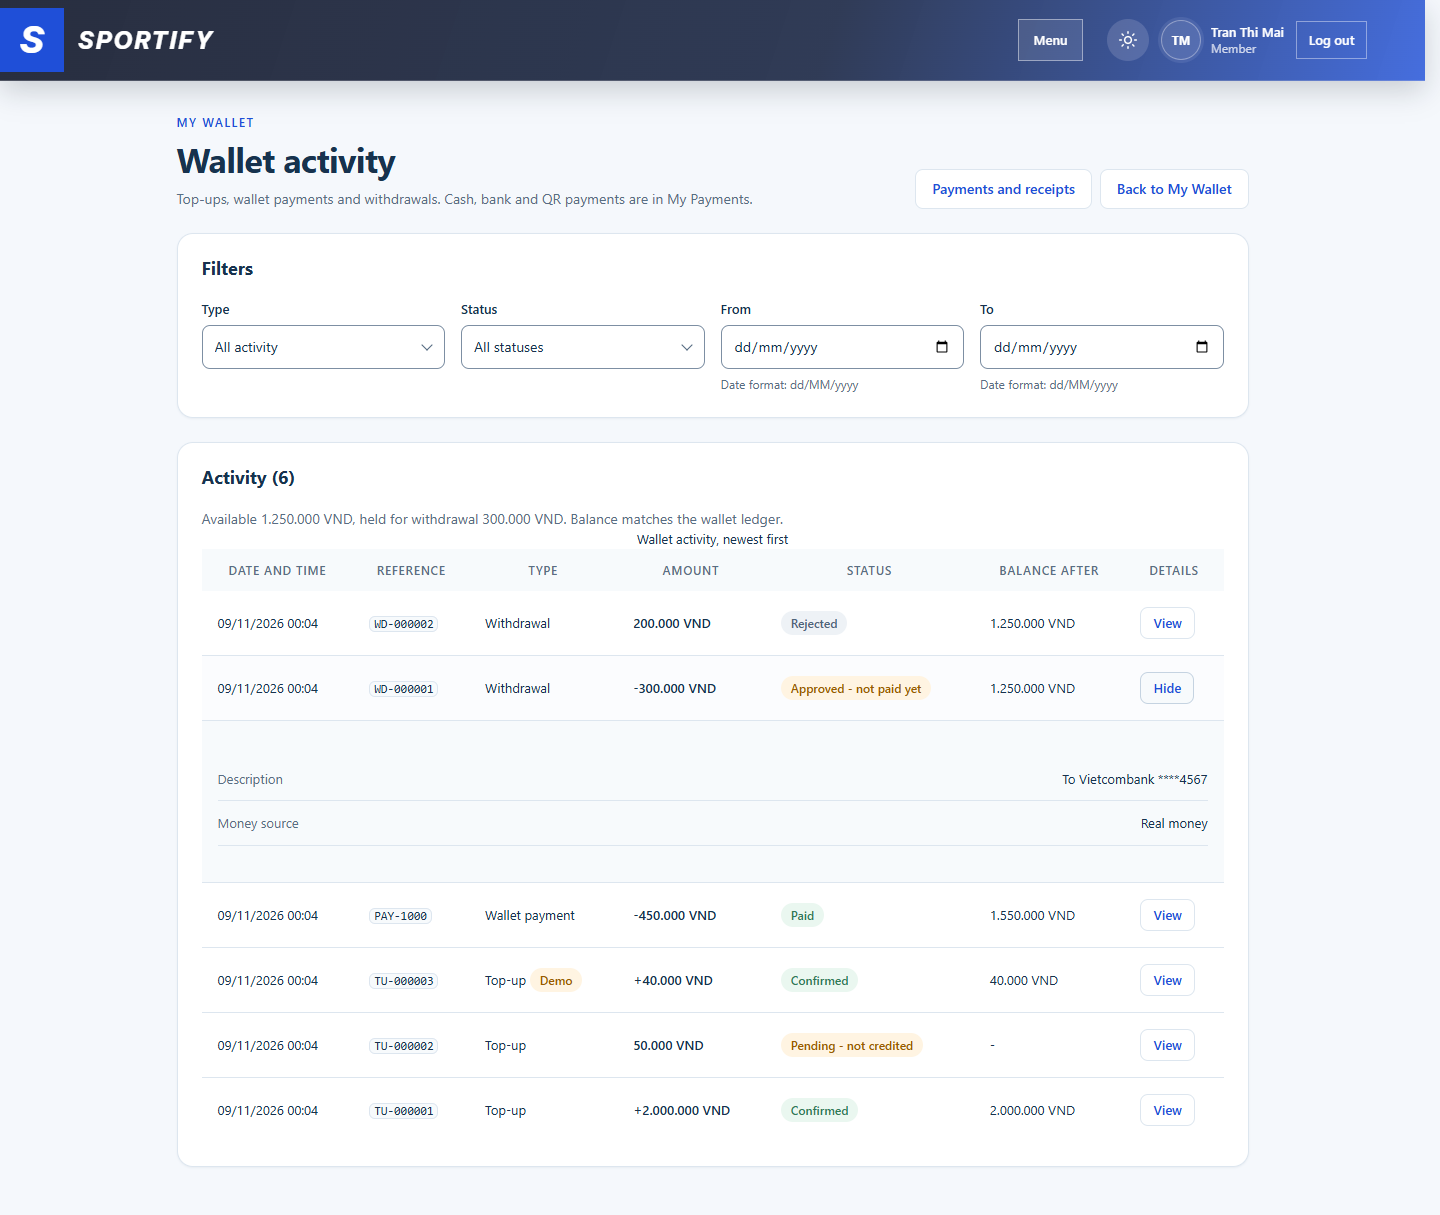
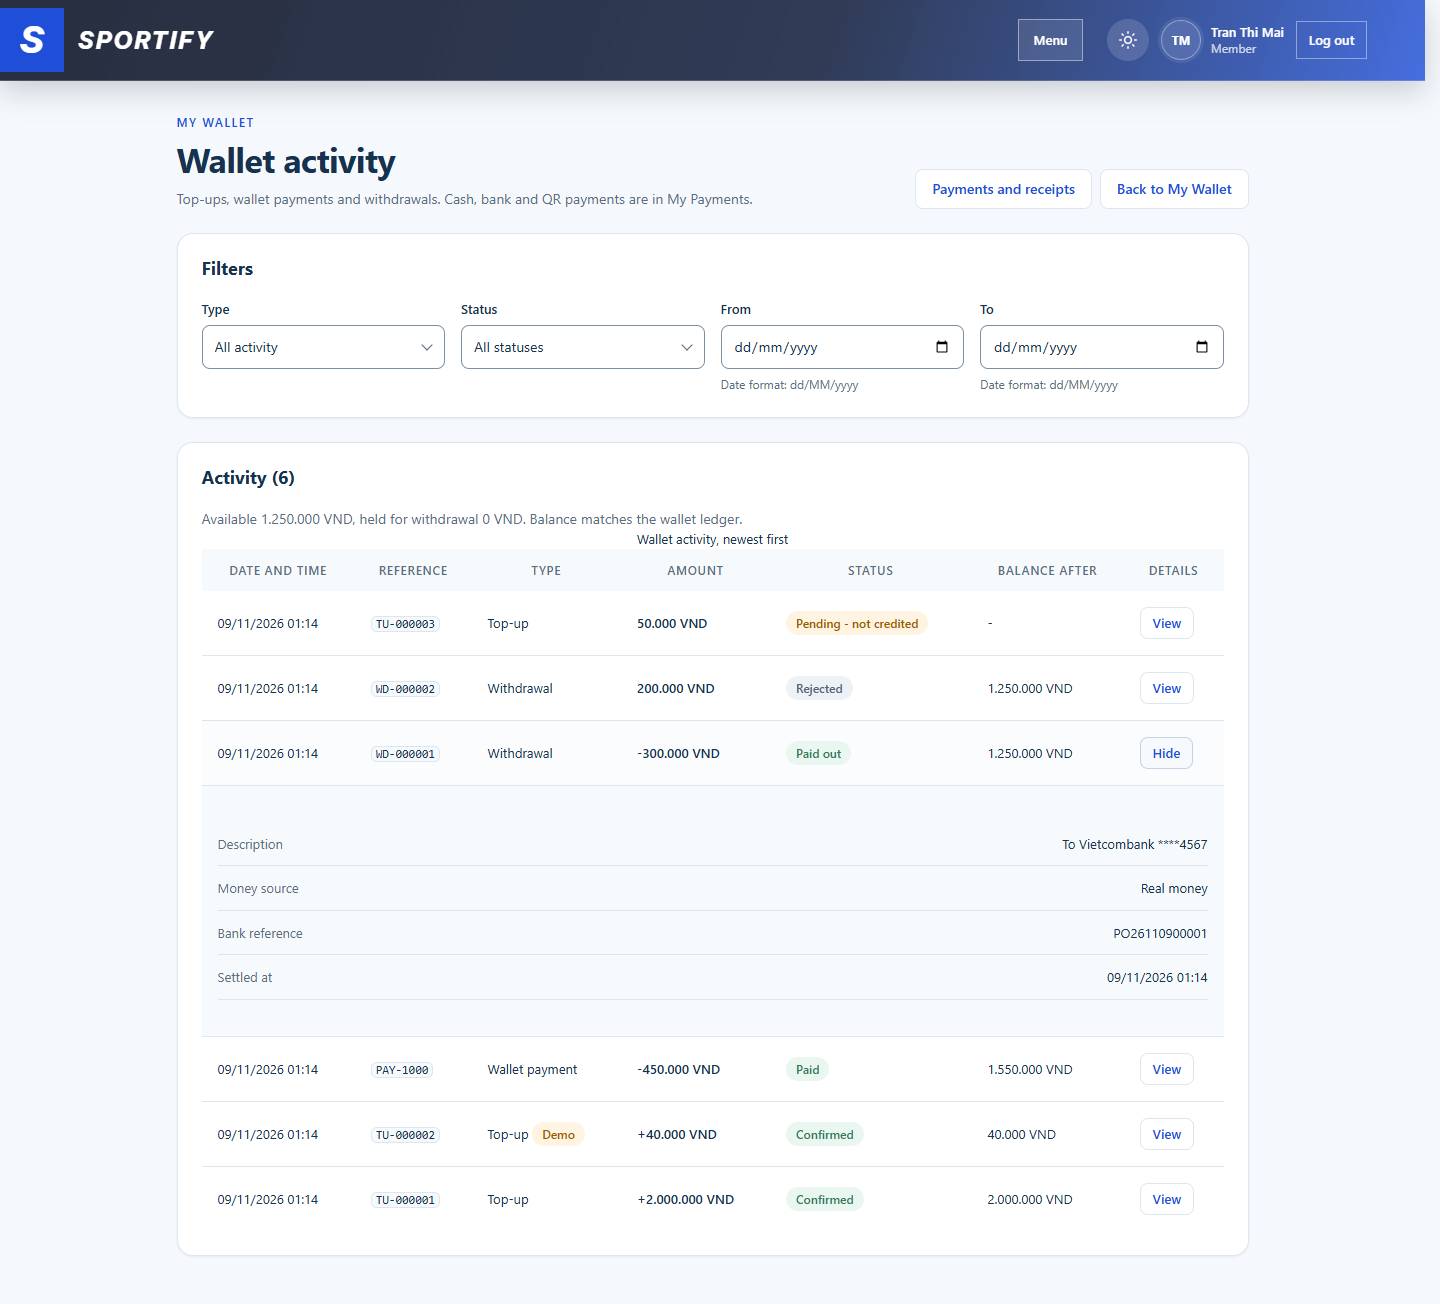
docs(flow-3): recapture MW-08 evidence and complete the final CODEOWNER handoff

diff --git a/tasks/Member-Wallet-Release (i)/reports/FINAL_CODEOWNER_HANDOFF.md b/tasks/Member-Wallet-Release (i)/reports/FINAL_CODEOWNER_HANDOFF.md
@@ -1,89 +1,106 @@
 # FINAL CODEOWNER HANDOFF - Member Wallet Release
 
-Status of this file: INTERIM (MW-01 to MW-04 only; MW-05 to MW-08 have no PR yet). Updated after the CODEOWNER review
-of 2026-11-08.
+Status of this file: FINAL for the implementation run (all eight tasks have a PR). It replaces the interim version written
+after the CODEOWNER review of MW-01 to MW-04 and keeps its findings.
 
-Run date/time/timezone: 2026-11-08, Asia/Bangkok
+Run date/time/timezone: 2026-11-08 to 2026-11-09, Asia/Bangkok
 Repository / initial origin/main SHA: `senko-do-thingz/G3-SportCentreManagement` / `e3e9a10bf981a4109c75e51d07c341b3a99e94d5`
-Latest origin/main SHA at review: `6dbbcfa9` (merged into the stack, no force-push)
-Target DB: `sportify` / migration authorization status: NOT AUTHORIZED. V49, V50 and V51 have not been applied to `sportify`. Evidence used throwaway databases `sportify_mw_evidence_*`.
-Local browser/JDK/SQL environment: Chrome via Playwright 1440x900, JDK 25, SQL Server (throwaway databases); CI uses Testcontainers SQL Server 2022.
+Latest origin/main SHA at review: `88208809` (includes the CODEOWNER merges of #250 and #253)
+Target DB: `sportify` / migration authorization status: NOT AUTHORIZED. V49 to V53 have not been applied to `sportify`.
+Evidence used throwaway databases `sportify_mw_evidence_<epoch>` (created per run, dropped afterwards); integration tests
+used the `DisposableUnifyDatabase` fixture on local SQL Server and Testcontainers in CI.
+Local browser/JDK/SQL environment: Chrome via Playwright 1440x900, JDK 25, local SQL Server; CI uses Testcontainers SQL Server 2022.
 
-## PR stack and the #251 merge event
+## PR stack
 
 ```
-main <- #250 fix/flow-1-mw-01-member-profile (MW-01 + MW-02)
-          <- #253 fix/flow-3-mw-03-wallet-core (MW-03)
-               <- #255 fix/flow-3-mw-04-topup (MW-04)
+main <- #250 MW-01 + MW-02 (merged by CODEOWNER)
+     <- #253 MW-03         (merged by CODEOWNER)
+     <- #255 MW-04 fix/flow-3-mw-04-topup                (open, base main)
+          <- #258 MW-05 fix/flow-2-mw-05-booking-wallet  (base MW-04 branch)
+               <- #259 MW-06 fix/flow-3-mw-06-withdrawal
+                    <- #260 MW-07 fix/flow-1-mw-07-reception-inbox
+                         <- #261 MW-08 fix/flow-3-mw-08-member-history
 ```
 
-- #251 (MW-02, `fix/flow-1-mw-02-health`) had `fix/flow-1-mw-01-member-profile` as its base. The author merged it on
-  GitHub into that branch (not into `main`) at 2026-11-08 09:13:55 UTC, merge commit `fcbafd8e`, before any CODEOWNER
-  review. The plan required separate CODEOWNER-reviewed PRs and no unapproved merges, so this merge did not follow the
-  plan. The reason is not recorded in the branch history; the author has been asked to confirm it on #250. `main` was
-  not changed.
-- Effect: #250's diff against `main` is MW-01 plus MW-02, including migration
-  `catalog/V49__member_health_assessment.sql`. #253's base was moved from the merged MW-02 branch to
-  `fix/flow-1-mw-01-member-profile`.
-- Release pins: V49 on #250, V50 on #253, V51 on #255 (UnifyPreflight, CI release checks, NX-04 inventory, schema
-  fingerprint from the CI fixture, `docs/db-unify/RECONCILIATION.md` addenda).
+- #251 (MW-02) was merged on GitHub into the MW-01 branch at 2026-11-08 09:13:55 UTC (merge commit `fcbafd8e`) before
+  CODEOWNER review, by the implementing account. This did not follow the plan. `main` was not changed; MW-02 was then
+  reviewed as part of #250.
+- The CODEOWNER changed MW-03 and MW-04 during review (release pins, compensation rule, verified receiving account,
+  single in-flight wallet operation). These changes were merged forward into #258 to #261 with ordinary merges, no
+  force-push, and MW-05/MW-06 were adapted to them (see findings).
+- Release pins: V49 (#250), V50 (#253), V51 (#255), V52 (#258), V53 (#259): UnifyPreflight, the three release check
+  scripts, NX-04 inventory, `docs/db-unify/schema-fingerprint.txt` and `RECONCILIATION.md` addenda. The V52 and V53
+  fingerprints were computed by `UnifyReconciliationIntegrationTest` on a disposable local fixture after confirming the
+  same test reproduces the CI V51 value on the CODEOWNER's MW-04 branch.
 
 ## One-run status
 
-| Task | PR URL | Base | Head | Desktop screenshots | Tests/CI | Status | Blocker |
+| Task | PR URL | Base | Head (at handoff) | Desktop screenshots | Tests/CI | Status | Blocker |
 |---|---|---|---|---|---|---|---|
-| MW-01 | https://github.com/senko-do-thingz/G3-SportCentreManagement/pull/250 | `main` | see PR | `evidence/MW-01/` (4) | CI green at `6a785f60` | READY_FOR_CODEOWNER_REVIEW | Combined diff with MW-02, documented above |
-| MW-02 | https://github.com/senko-do-thingz/G3-SportCentreManagement/pull/251 (merged into #250's branch) | MW-01 branch | `c847497c` | `evidence/MW-02/` (3) | Covered by #250 CI | Reviewed as part of #250 | Unapproved branch merge, see above |
-| MW-03 | https://github.com/senko-do-thingz/G3-SportCentreManagement/pull/253 | MW-01 branch | see PR | `evidence/MW-03/` (2) | CI rerun after review fix | READY_FOR_CODEOWNER_REVIEW (conditional) | Depends on #250 |
-| MW-04 | https://github.com/senko-do-thingz/G3-SportCentreManagement/pull/255 | MW-03 branch | see PR | `evidence/MW-04/` (4, captured before the review fix) | CI rerun after review fix | CHANGES_REQUIRED -> fixes pushed, awaiting re-review | Screenshots need recapture after the fix |
-| MW-05 | - | - | - | - | - | NOT STARTED | Must use `WalletPendingOperations.requireNone` and compensation rules below |
-| MW-06 | - | - | - | - | - | NOT STARTED | Must claim the single pending slot for a withdrawal |
-| MW-07 | - | - | - | - | - | NOT STARTED | |
-| MW-08 | - | - | - | - | - | NOT STARTED | |
+| MW-01 | https://github.com/senko-do-thingz/G3-SportCentreManagement/pull/250 | `main` | merged | `evidence/MW-01/` (4) | CI green | MERGED by CODEOWNER | - |
+| MW-02 | https://github.com/senko-do-thingz/G3-SportCentreManagement/pull/251 | MW-01 branch | `c847497c` | `evidence/MW-02/` (3) | via #250 | MERGED (see note above) | - |
+| MW-03 | https://github.com/senko-do-thingz/G3-SportCentreManagement/pull/253 | `main` | merged | `evidence/MW-03/` (2) | CI green | MERGED by CODEOWNER | - |
+| MW-04 | https://github.com/senko-do-thingz/G3-SportCentreManagement/pull/255 | `main` | CODEOWNER-maintained | `evidence/MW-04/` (4, before the review fix) | CODEOWNER rerun | Awaiting CODEOWNER re-review | Recapture after the fix belongs to #255 |
+| MW-05 | https://github.com/senko-do-thingz/G3-SportCentreManagement/pull/258 | MW-04 branch | see PR | `evidence/MW-05/` (4) | local PASS, CI on latest head | READY_FOR_CODEOWNER_REVIEW | Depends on #255 |
+| MW-06 | https://github.com/senko-do-thingz/G3-SportCentreManagement/pull/259 | MW-05 branch | see PR | `evidence/MW-06/` (5) | local PASS, CI on latest head | READY_FOR_CODEOWNER_REVIEW | Depends on #258 |
+| MW-07 | https://github.com/senko-do-thingz/G3-SportCentreManagement/pull/260 | MW-06 branch | see PR | `evidence/MW-07/` (3, recaptured under the in-flight rule) | local PASS, CI on latest head | READY_FOR_CODEOWNER_REVIEW | Depends on #259 |
+| MW-08 | https://github.com/senko-do-thingz/G3-SportCentreManagement/pull/261 | MW-07 branch | see PR | `evidence/MW-08/` (4, recaptured, includes cross-flow E2E) | local PASS, CI on latest head | READY_FOR_CODEOWNER_REVIEW | Depends on #260 |
 
 ## Cross-flow findings
 
-- Profile + password security: unchanged on `main`; existing tests cover it (MW-01).
-- Health confidentiality and Coach scope: raw answers only to the Member; Coach sees the outcome only when shared (MW-02).
-- Real vs simulated top-up segregation: separate ACTUAL and SIMULATED pools; simulated top-ups only when
-  `app.wallet.simulated-topups-enabled=true`.
-- Real-money top-ups need a verified receiving account: creation is refused without one (`TOPUP_NOT_PAYABLE`), the
-  account is stored on the request, confirmation re-checks it, and `ck_wallet_topup_beneficiary` refuses an ACTUAL row
-  without it (CODEOWNER blocker 1 on #255).
-- One in-flight wallet operation per Member: `wallet_pending_operation` (PK `member_id`) is shared by top-up, wallet
-  purchase and withdrawal; a filtered unique index allows one PENDING top-up per Member (CODEOWNER blocker 2 on #255).
-- Lock order: `member_wallet` row, then the operation row (`wallet_topup`), then the pending slot, then the ledger
-  (CODEOWNER item 3 on #255).
-- Ledger invariant and double-credit prevention: wallet row lock, unique operation key, append-only trigger.
-  `COMPENSATION_CREDIT` must name one earlier `PURCHASE_DEBIT` of the same wallet and pool and can never exceed it
-  (CODEOWNER note on #253).
-- Late and unmatched transfers: `reports/MW-04-unmatched-payments.md` (on #255). A member-cancelled real-money request
-  can be confirmed as a late payment with a note; unmatched money is never credited (CODEOWNER item 4 on #255).
-- Booking capacity, withdrawals, notifications, transaction history: MW-05 to MW-08, not started.
-- Non-regression: wallet code creates no `payment`, `invoice` or `cash_event` rows (tested).
-- SQL migrations and backup/rollback plan: V49 to V51 are additive. Applying them to `sportify` needs CODEOWNER
-  authorization and a verified native backup first.
+- Source/requirements discrepancies: MW-01 needed no code (profile and password already met the task). MW-05: the
+  repository has no separately priced seat, so the wallet settles existing card/package purchases and booking keeps using
+  package credits; no compensation entry is ever created by MW-05.
+- Profile + password security: unchanged; existing tests (79) pass.
+- Health confidentiality and Coach scope: raw answers only to the Member; assigned Coach sees the outcome only when
+  shared; Receptionist 403, unrelated Coach 404.
+- Real vs simulated top-up segregation: ACTUAL and SIMULATED pools; demo top-ups only with
+  `app.wallet.simulated-topups-enabled=true`; demo funds cannot pay (service and DB CHECK) or be paid to a bank (demo
+  withdrawals end `SIMULATED_COMPLETED` only).
+- Real-money top-ups need a verified receiving account (CODEOWNER rule on #255).
+- One in-flight wallet operation per Member (`wallet_pending_operation`, CODEOWNER rule on #255): MW-05 wallet payment
+  calls `requireNone`; MW-06 withdrawal claims the slot at request and releases it on complete, reject or fail (this
+  replaced the earlier limit of three open withdrawals). Lock order everywhere: `member_wallet`, then the operation row,
+  then the slot, then the ledger.
+- Ledger invariant and double-credit prevention: wallet row lock, unique operation keys (`TOPUP-`, `PAY-`, `WD-RES-`,
+  `WD-REL-`, `WD-PAY-`), append-only trigger, `payment_wallet_settlement` unique per payment and ledger entry.
+- Booking capacity + package credit vs wallet charge: booking code does not touch the wallet; the last-seat race is
+  covered by `BookingRulesIntegrationTest.twoMembersCompeteForLastSeat...` (31/31 pass).
+- Withdrawal reserves, Receptionist approval, completion: reserve at request, APPROVED moves no money, COMPLETED needs a
+  unique payout reference, reject/fail release once (tested, including concurrency).
+- Notification read != resolved: inbox state is read live from the source row; one notice per task and Receptionist via
+  the unique `(user_id, event_key)` index; no account numbers in notices.
+- Member transactions and wallet history: Payments & Receipts (existing, now shows Sportify Wallet) plus Wallet activity
+  with filters, paging and a ledger reconciliation flag; cross-flow E2E reconciled (available 1,250,000 as expected).
+- Non-regression: top-ups and withdrawals create no `payment`, `invoice`, `cash_event` or `refund_request` rows. A
+  wallet-paid purchase is a real SUCCESS payment with method WALLET, so the existing cash trigger records it once at
+  purchase time; staff confirmation, desk sales and method changes cannot select WALLET.
+- SQL migrations and backup/rollback plan: V49 to V53 are additive. Applying them to `sportify` needs CODEOWNER
+  authorization and a verified native backup first; rollback is restore from that backup (ledger rows are append-only).
 
 ## Test truth table
 
 | Test | Executed? | Actual outcome | Evidence | Blocker if not run |
 |---|---|---|---|---|
-| Frontend lint/tsc/build | Yes (CI) | PASS on #250/#253; rerun pending on #255 | Actions | |
-| Frontend unit tests | Yes (local + CI) | top-up tests 7/7 PASS locally after the fix | vitest | |
-| Backend unit tests | Yes (local + CI) | PASS | surefire | |
-| SQL integration tests | CI only (no Docker on the agent machine) | Rerun pending for #253/#255 after the fix | Actions | |
-| Real desktop browser acceptance | MW-01..MW-04 by the author before the review fix | PASS at the time | `evidence/MW-0x/` | MW-04 recapture needs a throwaway DB at V51 |
-| Cross-flow wallet/booking/reception E2E | No | - | - | MW-05 not started |
-| Concurrent / idempotent requests | Yes (integration) | see #253/#255 CI | Actions | |
-| Finance report simulated provenance checks | Partly | Wallet writes no payment/invoice/cash_event rows | `WalletLedgerIntegrationTest` | |
+| Frontend lint/tsc/build | Yes, local on MW-08 (full stack) | lint 0, build 0 | local | |
+| Frontend unit tests | Yes, local on MW-08 | 123 files / 1996 tests PASS | vitest | |
+| Backend unit tests | Yes, local on MW-08 | 2424 run, 0 failures | surefire | |
+| SQL integration tests | Yes, local disposable fixture (UNIFY_TEST_SQL_PORT) | Wallet ledger 16, top-up 15, payment 6, withdrawal 6, inbox 4, history 2, health 6, payment verification 25, booking rules 31, Unify 7, release migration 2, demo 59 + 60: PASS | failsafe | Full CI suite runs on each PR head |
+| Real desktop browser acceptance | Yes, MW-01 to MW-08 | PASS | `evidence/MW-0x/` | |
+| Cross-flow wallet/booking/reception E2E | Yes (MW-08 run) | reconciled, in-flight rule enforced, other member 0 rows | `evidence/MW-08/README.md` | |
+| Concurrent / idempotent requests | Yes (integration) | ledger debits, top-up confirms, wallet pay, withdrawal requests, inbox sync | failsafe | |
+| Finance report simulated provenance checks | Partly | no payment/invoice/cash_event from wallet operations; demo funds never pay | integration tests | No change to report queries was needed |
 
 ## CODEOWNER decisions and review outcome
 
-- PRs ready for review: #250 (combined diff documented), #253 (conditional on #250).
-- PRs needing changes, with exact fix: #255, four items fixed in the follow-up commit; awaiting re-review and new
-  screenshots.
-- Blocked PRs and cause: none blocked by CI. Migration of `sportify` blocked pending authorization.
-- Exact proposed merge order (do NOT merge): #250 -> #253 -> #255.
-- Commands to reproduce: `mvn -Dit.test=WalletLedgerIntegrationTest,WalletTopUpIntegrationTest,MemberHealthIntegrationTest verify`
-  (needs Docker), `npx vitest run src/pages/member`.
-- No approval/merge/deployment performed by agent.
+- PRs ready for review: #258, #259, #260, #261 (stacked on #255).
+- PRs needing changes, with exact fix: none known on #258 to #261 at handoff; #255 awaits the CODEOWNER's own re-review.
+- Blocked PRs and cause: none blocked by CI after the pin and rule updates. Migration of `sportify` blocked pending
+  authorization.
+- Exact proposed merge order (do NOT merge): #255 -> #258 -> #259 -> #260 -> #261, retargeting each base to `main` after
+  its parent merges.
+- Commands to reproduce (from `backend/`, SQL Server reachable, values from `.env`):
+  `UNIFY_TEST_SQL_PORT=1433 mvn -DskipUnitTests=true -Dit.test=WalletLedgerIntegrationTest,WalletTopUpIntegrationTest,WalletPaymentIntegrationTest,WalletWithdrawalIntegrationTest,ReceptionInboxIntegrationTest,WalletHistoryIntegrationTest -Dfailsafe.failIfNoSpecifiedTests=false verify`;
+  `mvn test`; from `frontend/`: `npm run lint`, `npm run build`, `npx vitest run`.
+- No approval/merge/deployment performed by the agent.

diff --git a/tasks/Member-Wallet-Release (i)/evidence/MW-08/README.md b/tasks/Member-Wallet-Release (i)/evidence/MW-08/README.md
@@ -1,33 +1,35 @@
 # MW-08 evidence - Member payment and wallet history (and cross-flow E2E)
 
 - Branch: `fix/flow-3-mw-08-member-history` (stacked on `fix/flow-1-mw-07-reception-inbox`)
-- Captured: 2026-11-09 00:04 Asia/Bangkok
+- Captured: 2026-11-09 01:14 Asia/Bangkok (recaptured after the CODEOWNER single in-flight wallet rule was merged into the stack)
 - Browser: Google Chrome via Playwright (channel `chrome`), viewport 1440x900, light theme
-- Backend: jar built from this branch (all eight tasks), profiles `dev,demo`, port 18080, throwaway database `sportify_mw_evidence_1794157432` (fresh V1-V53 plus demo seeds). Not the shared `sportify` database. Synthetic receiving account and demo top-ups enabled for this run only.
+- Backend: jar built from this branch (all eight tasks plus the CODEOWNER MW-03/MW-04 review changes), profiles `dev,demo`, port 18080, throwaway database `sportify_mw_evidence_1794161613` (fresh V1-V53 plus demo seeds). Not the shared `sportify` database. Synthetic receiving account and demo top-ups enabled for this run only.
 - Frontend: local Vite dev server on port 3000
 - Capture script: `ev.py` + `mw08.py` (kept outside the repository)
 
-## Cross-flow scenario on one synthetic member (Mai), all through the real APIs
+## Cross-flow scenario on one synthetic member (Mai), all through the real APIs, one wallet operation at a time
 
 1. Real top-up 2,000,000 confirmed by Receptionist Lan; a second confirmation answered 409.
-2. Top-up 50,000 left PENDING.
-3. Demo top-up 40,000 confirmed (demo pool).
-4. Package (450,000) paid from the wallet; replay answered `replay: true` with no second debit.
-5. Second package (450,000) paid by BANK_TRANSFER confirmed at reception.
-6. Payout account saved; withdrawal 300,000 requested and approved (held, not paid); withdrawal 200,000 requested and rejected (released).
+2. Demo top-up 40,000 confirmed (demo pool).
+3. Package (450,000) paid from the wallet; replay answered `replay: true` with no second debit.
+4. Second package (450,000) paid by BANK_TRANSFER confirmed at reception.
+5. Payout account saved; withdrawal 300,000 requested and approved. A top-up attempted while it was open answered 409 `WALLET_OPERATION_IN_FLIGHT`. The payout was then recorded (reference PO26110900001).
+6. Withdrawal 200,000 requested and rejected (released).
+7. Top-up 50,000 requested and left PENDING.
 
 | Check | Result |
 |---|---|
 | Wallet activity rows | 6 |
-| Available / held from the API | 1,250,000 / 300,000 (expected 2,000,000 - 450,000 - 300,000 = 1,250,000) |
+| Available / held from the API | 1,250,000 / 0 (expected 2,000,000 - 450,000 - 300,000 = 1,250,000) |
 | `reconciled` (stored balance equals the sum of ACTUAL ledger rows) | true |
+| Top-up while a withdrawal is in flight | 409 `WALLET_OPERATION_IN_FLIGHT` |
 | Another member (An) reading wallet history | 0 rows |
 
 | File | Role and route | Expected | Observed |
 |---|---|---|---|
 | `screenshots/01-payments-and-receipts-with-wallet-and-bank.png` | MEMBER `/member/payments` | Bank transfer and Sportify Wallet payments with receipts; link to Wallet activity | As expected |
 | `screenshots/02-wallet-activity-timeline.png` | MEMBER `/member/wallet/history` | Top-ups, wallet payment, withdrawals with statuses and balance after; ledger match message | As expected |
-| `screenshots/03-wallet-activity-detail-and-statuses.png` | MEMBER | Detail of WD-000001: masked account, real money; "Approved - not paid yet"; pending top-up "not credited" with no balance change | As expected |
+| `screenshots/03-wallet-activity-detail-and-statuses.png` | MEMBER | Detail of WD-000001: masked account, real money, payout reference; pending top-up "not credited" with no balance change; rejected withdrawal | As expected |
 | `screenshots/04-filtered-topups-with-pending-and-demo.png` | MEMBER | Type filter Top-ups: confirmed, pending and Demo rows | As expected |
 
 Note: for a demo row, "Balance after" is the demo pool balance; the row is labelled Demo.
